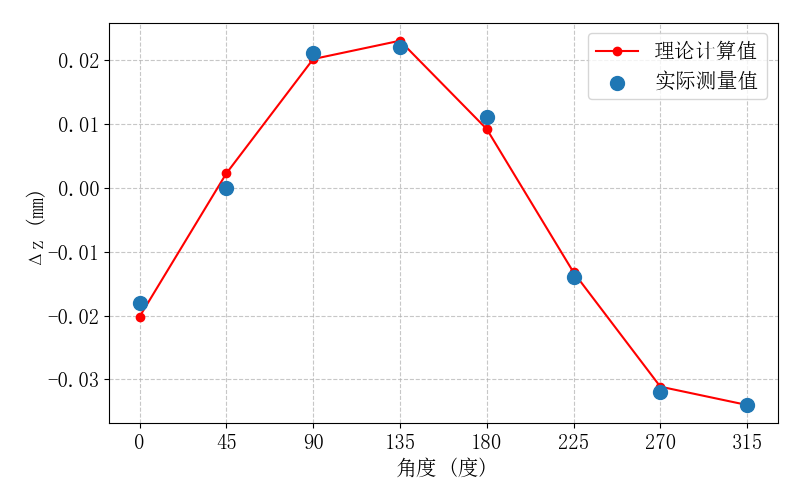
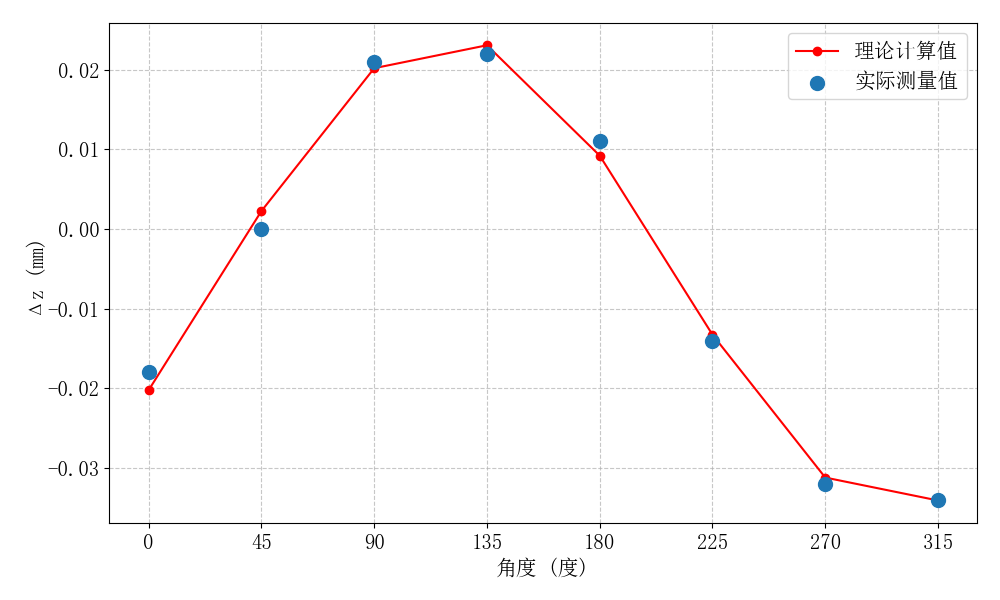
没事了，拟合成功了，我改了文章的代码没改验证脚本的代码

diff --git a/数据处理与寄存中心/chapter5/假设不过圆心的旋转模型-正在提议/QWQ-验证脚本.py b/数据处理与寄存中心/chapter5/假设不过圆心的旋转模型-正在提议/QWQ-验证脚本.py
@@ -29,11 +29,17 @@ def qwq_part1():
     # d = 1.4901
     # theta = -0.0037  # rad
 
-    ## 仿真优化AXIS5的结果，直线方程-0.497x+0.8678y=1.48911394, theta = -0.0037
+    ## 更改公式之后的QWQ的一个结果，看起来还行但是不是完全拟合。方向向量：[-0.49695884  0.86777412  0.        ]，直线的方程为：0.86777412*x + 0.49695884*y = 1.4901
     R = 8.0
-    phi = 2.0909  # rad
-    d = 1.4891
-    theta = -0.0037  # rad
+    phi = 0.5201  # rad
+    d = -1.4901
+    theta = 0.0037  # rad
+
+    # # 更改公式之后的DP的一个解，线性拟合的一个结果并不是很满意。
+    # R = 8.0
+    # phi = 0.5200906874811719 + 3.14 / 4  # rad
+    # d = -1.4900683628083566
+    # theta = 0.0036911141973496897  # rad
 
     points = [
         (0, -0.018),
@@ -55,7 +61,7 @@ def qwq_part1():
     print("验证结果：")
     for angle_deg, delta_z in points:
         alpha = math.radians(angle_deg)
-        term = d + R * math.cos(alpha - phi)
+        term = d + R * math.sin(alpha - phi)
         computed = math.sin(theta) * term
         computed_dz.append(computed)
         print(f"Angle: {angle_deg}°, 实际Δz: {delta_z:.4f}, 计算Δz: {computed:.4f}")
@@ -65,80 +71,7 @@ def qwq_part1():
     plt.plot(angles_deg, computed_dz, "r-", label="理论计算值", marker="o")
     plt.scatter(angles_deg, actual_dz, s=100, label="实际测量值", zorder=3)
 
-    plt.title("Δz 随角度变化对比")
-    plt.xlabel("角度 (度)")
-    plt.ylabel("Δz (mm)")
-    plt.xticks(range(0, 360, 45))
-    plt.grid(True, linestyle="--", alpha=0.7)
-    plt.legend()
-    plt.tight_layout()
-    plt.show()
-
-
-def qwq_part2():
-
-    # 给定数据点的角度（度）和Δz值
-    angles_deg = [0, 45, 90, 135, 180, 225, 270, 315]
-    dz = np.array([-0.018, 0, 0.021, 0.022, 0.011, -0.014, -0.032, -0.034])
-
-    # 将角度转换为弧度
-    angles_rad = np.radians(angles_deg)
-
-    # 构建矩阵A
-    cos_angles = np.cos(angles_rad)
-    sin_angles = np.sin(angles_rad)
-    A = np.array([[1, c, s] for c, s in zip(cos_angles, sin_angles)])
-
-    # 使用最小二乘法求解D、B、C
-    x, residuals, rank, s = np.linalg.lstsq(A, dz, rcond=None)
-    D, B, C = x
-
-    # 计算sinθ、θ、d和φ
-    sin_theta = np.sqrt(B**2 + C**2) / 8  # R=8mm
-    theta = np.arcsin(sin_theta)
-    d = D / sin_theta
-    phi = np.arctan2(
-        C, B
-    )  # 注意：这里可能需要调整符号，因为公式中的推导可能需要考虑符号
-
-    # 将phi转换为弧度（可能需要调整到正确的象限）
-    # 由于B和C的符号，我们手动调整phi的计算
-    # 根据推导，phi应为arctan(C/B)的正确象限
-    phi = np.arctan2(C, B)
-
-    # 输出结果
-    print(f"φ (弧度): {phi:.4f}")
-    print(f"d (毫米): {d:.4f}")
-    print(f"θ (弧度): {theta:.6f}")
-
-    # 旋转轴的方程参数
-    cos_phi = np.cos(phi)
-    sin_phi = np.sin(phi)
-
-    # 旋转轴的方程形式：cos_phi * x + sin_phi * y = d
-    # 由于d是负的，方程可以写成：cos_phi * x + sin_phi * y + |d| =0 ?
-    # 但根据公式，正确的方程是：cos_phi * x + sin_phi * y = d
-    # 因此方程为：
-    # 方程：cos_phi * x + sin_phi * y - d = 0
-    equation = f"{cos_phi:.4f}x + {sin_phi:.4f}y - {d:.4f} = 0"
-
-    print(f"旋转轴的方程: {equation}")
-
-    # === 新增可视化代码 ===
-    # 计算理论值
-    computed_dz = []
-    for angle_deg in angles_deg:
-        alpha = np.radians(angle_deg)
-        term = d - 8 * np.cos(alpha - phi)  # R=8mm
-        computed = np.sin(theta) * term
-        computed_dz.append(computed)
-
-    # 可视化对比
-    plt.figure(figsize=(10, 6))
-    plt.plot(angles_deg, computed_dz, "r-", label="理论计算值", marker="o")
-    plt.scatter(angles_deg, dz, s=100, label="实际测量值", zorder=3)
-
-    plt.title("Δz 随角度变化对比 (qwq_part2)")
+    # plt.title("Δz 随角度变化对比")
     plt.xlabel("角度 (度)")
     plt.ylabel("Δz (mm)")
     plt.xticks(range(0, 360, 45))

diff --git a/数据处理与寄存中心/chapter5/假设不过圆心的旋转模型-正在提议/deepseek-不过圆心.py b/数据处理与寄存中心/chapter5/假设不过圆心的旋转模型-正在提议/deepseek-不过圆心.py
@@ -1,6 +1,8 @@
 # 可视化对比
 import matplotlib.pyplot as plt
 import numpy as np
+from scipy.optimize import curve_fit
+
 
 # 字体配置
 plt.rcParams["font.serif"] = ["SimSun", "Times New Roman"]
@@ -121,5 +123,59 @@ def dp_part2():
     plt.show()
 
 
+def dp_part3():
+    # 这是在改变公式之后的第一个线性拟合结果，不是很好。
+    # 数据
+    alpha_deg = np.array([0, 45, 90, 135, 180, 225, 270, 315])
+    delta_z = np.array([-0.018, 0.000, 0.021, 0.022, 0.011, -0.014, -0.032, -0.034])
+
+    # 转换为弧度并计算特征
+    alpha_rad = np.deg2rad(alpha_deg)
+    sin_alpha = np.sin(alpha_rad)
+    cos_alpha = np.cos(alpha_rad)
+    X = np.column_stack([np.ones(8), sin_alpha, cos_alpha])
+
+    # 线性回归
+    coefficients, *_ = np.linalg.lstsq(X, delta_z, rcond=None)
+    A, B, C = coefficients
+    R = 8.0  # mm
+
+    # 计算参数
+    B_sq_plus_C_sq = B**2 + C**2
+    sin_theta = np.sqrt(B_sq_plus_C_sq) / R
+    theta = np.arcsin(sin_theta)
+    phi = np.arctan2(-C, B)
+    d = A / sin_theta
+
+    print("phi (rad):", phi)
+    print("phi (degrees):", np.degrees(phi))
+    print("d (mm):", d)
+    print("theta (rad):", theta)
+    print("theta (degrees):", np.degrees(theta))
+
+
+def dp_part4():
+    # 改变模型之后的非线性拟合结果，结果都一样的（悲
+    # 数据
+    alpha_deg = np.array([0, 45, 90, 135, 180, 225, 270, 315])
+    delta_z = np.array([-0.018, 0.000, 0.021, 0.022, 0.011, -0.014, -0.032, -0.034])
+
+    def model_func(alpha_deg, phi, d, theta):
+        R = 8.0
+        alpha_rad = np.deg2rad(alpha_deg)
+        term = d + R * np.sin(alpha_rad - phi)
+        return np.sin(theta) * term
+
+    popt, _ = curve_fit(model_func, alpha_deg, delta_z, p0=[1.290, 0.082, 0.00358])
+    phi_opt, d_opt, theta_opt = popt
+
+    print("优化后参数：")
+    print("phi (rad):", phi_opt)
+    print("phi (degrees):", np.degrees(phi_opt))
+    print("d (mm):", d_opt)
+    print("theta (rad):", theta_opt)
+    print("theta (degrees):", np.degrees(theta_opt))
+
+
 if __name__ == "__main__":
-    dp_part2()
+    dp_part3()

diff --git a/数据处理与寄存中心/chapter5/假设不过圆心的旋转模型-正在提议/marsai-计算脚本.py b/数据处理与寄存中心/chapter5/假设不过圆心的旋转模型-正在提议/marsai-计算脚本.py
@@ -1,0 +1,48 @@
+import numpy as np
+from scipy.optimize import least_squares
+
+# 数据
+alpha_deg = np.array([0, 45, 90, 135, 180, 225, 270, 315])
+alpha_rad = np.radians(alpha_deg)
+dz = np.array([-0.018, 0.000, 0.021, 0.022, 0.011, -0.014, -0.032, -0.034])
+R = 8
+
+
+# 残差函数
+def residual(params):
+    phi, d, theta = params
+    predicted = np.sin(theta) * (d + R * np.sin(alpha_rad - phi))
+    return predicted - dz
+
+
+# 初始猜测
+initial_guess = [0.5200906874811719 + 3.14 / 4, -5.66, 0.003]
+
+# 优化（增加边界条件约束）
+result = least_squares(
+    residual, initial_guess, bounds=([-np.inf, -np.inf, 0], [np.inf, np.inf, np.pi / 2])
+)
+phi_opt, d_opt, theta_opt = result.x  # 添加这行关键解包语句
+
+# 输出结果（增加收敛性检查和残差分析）
+print(f"优化状态：{'成功' if result.success else '失败'} (原因：{result.message})")
+print(f"残差平方和：{np.sum(result.fun**2):.6f}")
+print("\n优化后的参数：")
+print(f"φ = {np.degrees(phi_opt):.1f}° ({phi_opt:.4f} rad)")
+print(f"d = {d_opt:.4f} mm ({abs(d_opt):.4f} mm 到原点的垂直距离)")
+print(f"θ = {theta_opt:.4f} rad ({np.degrees(theta_opt):.1f}°)")
+
+# 旋转轴方程推导（新增部分）
+print("\n旋转轴方程 (xOy平面):")
+print(
+    f"x*cos({np.degrees(phi_opt):.1f}°) + y*sin({np.degrees(phi_opt):.1f}°) = {d_opt:.4f}"
+)
+print(f"或参数方程形式：")
+print(f"x = {d_opt:.4f}*cos({phi_opt:.4f}) - t*sin({phi_opt:.4f})")
+print(f"y = {d_opt:.4f}*sin({phi_opt:.4f}) + t*cos({phi_opt:.4f})")
+print(f"z = 0 (∀ t ∈ ℝ)")
+
+# 验证预测值
+phi_rad = phi_opt
+predicted_dz = np.sin(theta_opt) * (d_opt + R * np.sin(alpha_rad - phi_rad))
+print("预测的Δz值：", np.round(predicted_dz, 4))

diff --git a/数据处理与寄存中心/chapter5/假设不过圆心的旋转模型-正在提议/QWQ-计算脚本.py b/数据处理与寄存中心/chapter5/假设不过圆心的旋转模型-正在提议/QWQ-计算脚本.py
@@ -1,0 +1,38 @@
+import numpy as np
+from scipy.optimize import least_squares
+
+# 数据
+alpha_deg = np.array([0, 45, 90, 135, 180, 225, 270, 315])
+alpha_rad = np.radians(alpha_deg)
+dz = np.array([-0.018, 0.000, 0.021, 0.022, 0.011, -0.014, -0.032, -0.034])
+R = 8
+
+
+# 残差函数
+def residual(params):
+    phi, d, theta = params
+    predicted = np.sin(theta) * (d + R * np.sin(alpha_rad - phi))
+    return predicted - dz
+
+
+# 初始猜测（φ=45°, d=-5.66, θ=0.003）
+initial_guess = [np.radians(45), -5.66, 0.003]
+
+# 优化
+result = least_squares(residual, initial_guess)
+phi_opt, d_opt, theta_opt = result.x
+
+# 输出结果
+print(f"优化后的参数：")
+print(f"φ = {np.degrees(phi_opt):.1f}° ({phi_opt:.4f} rad)")
+print(f"d = {d_opt:.4f} mm")
+print(f"θ = {theta_opt:.4f} rad ({np.degrees(theta_opt):.1f}°)")
+
+# 旋转轴方程和方向向量
+phi_rad = phi_opt
+direction_vector = np.array([-np.sin(phi_rad), np.cos(phi_rad), 0])
+print(f"旋转轴方向向量：{direction_vector}")
+
+# 验证预测值
+predicted_dz = np.sin(theta_opt) * (d_opt + R * np.sin(alpha_rad - phi_rad))
+print("预测的Δz值：", np.round(predicted_dz, 4))
